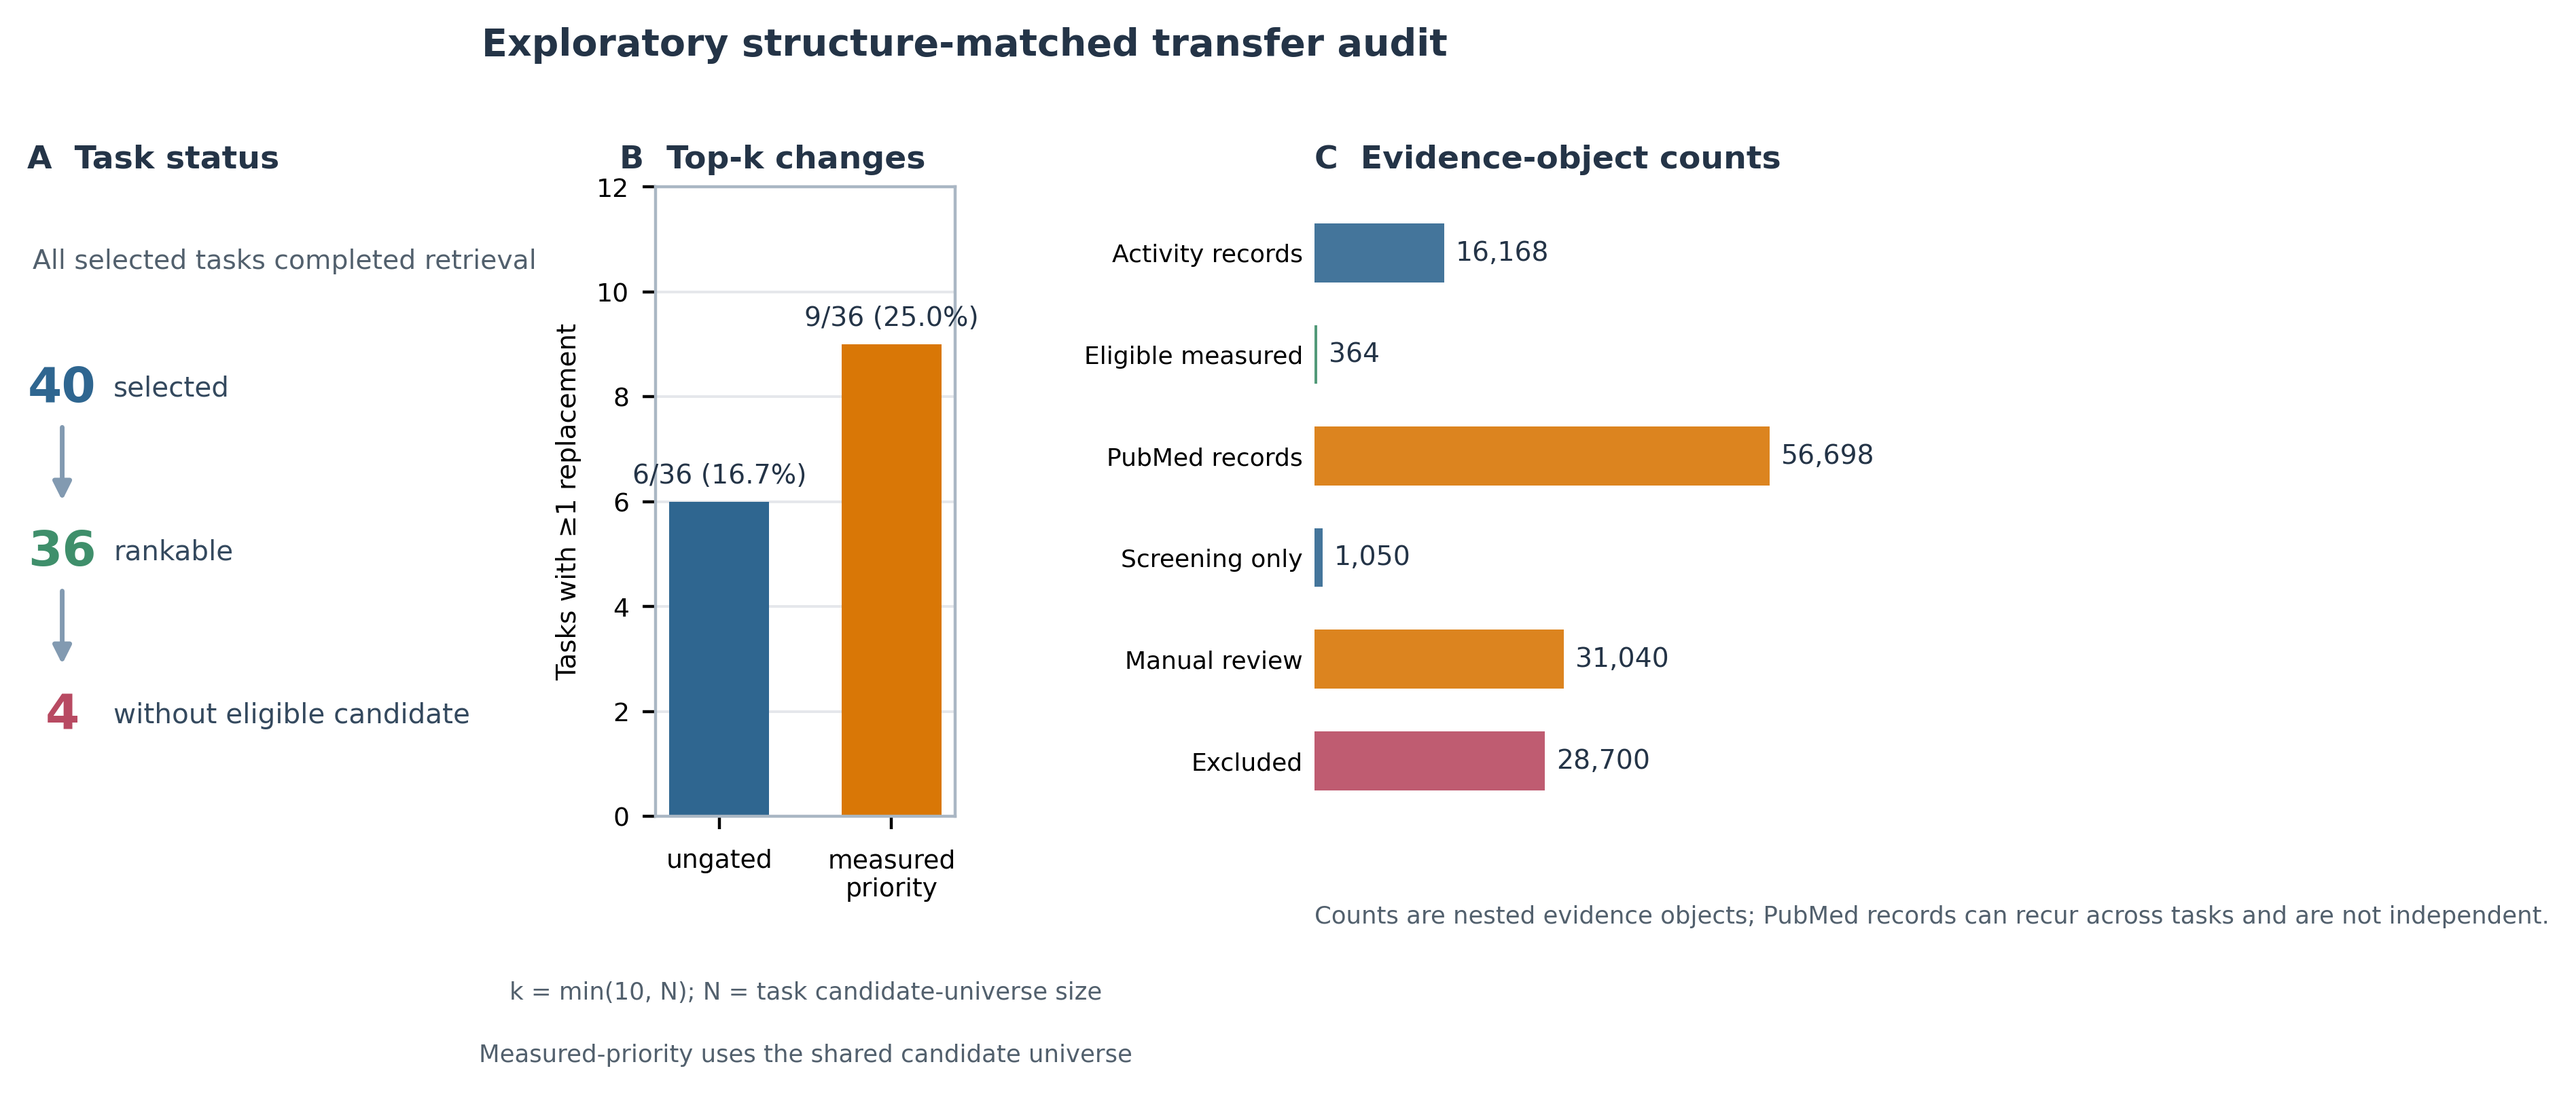
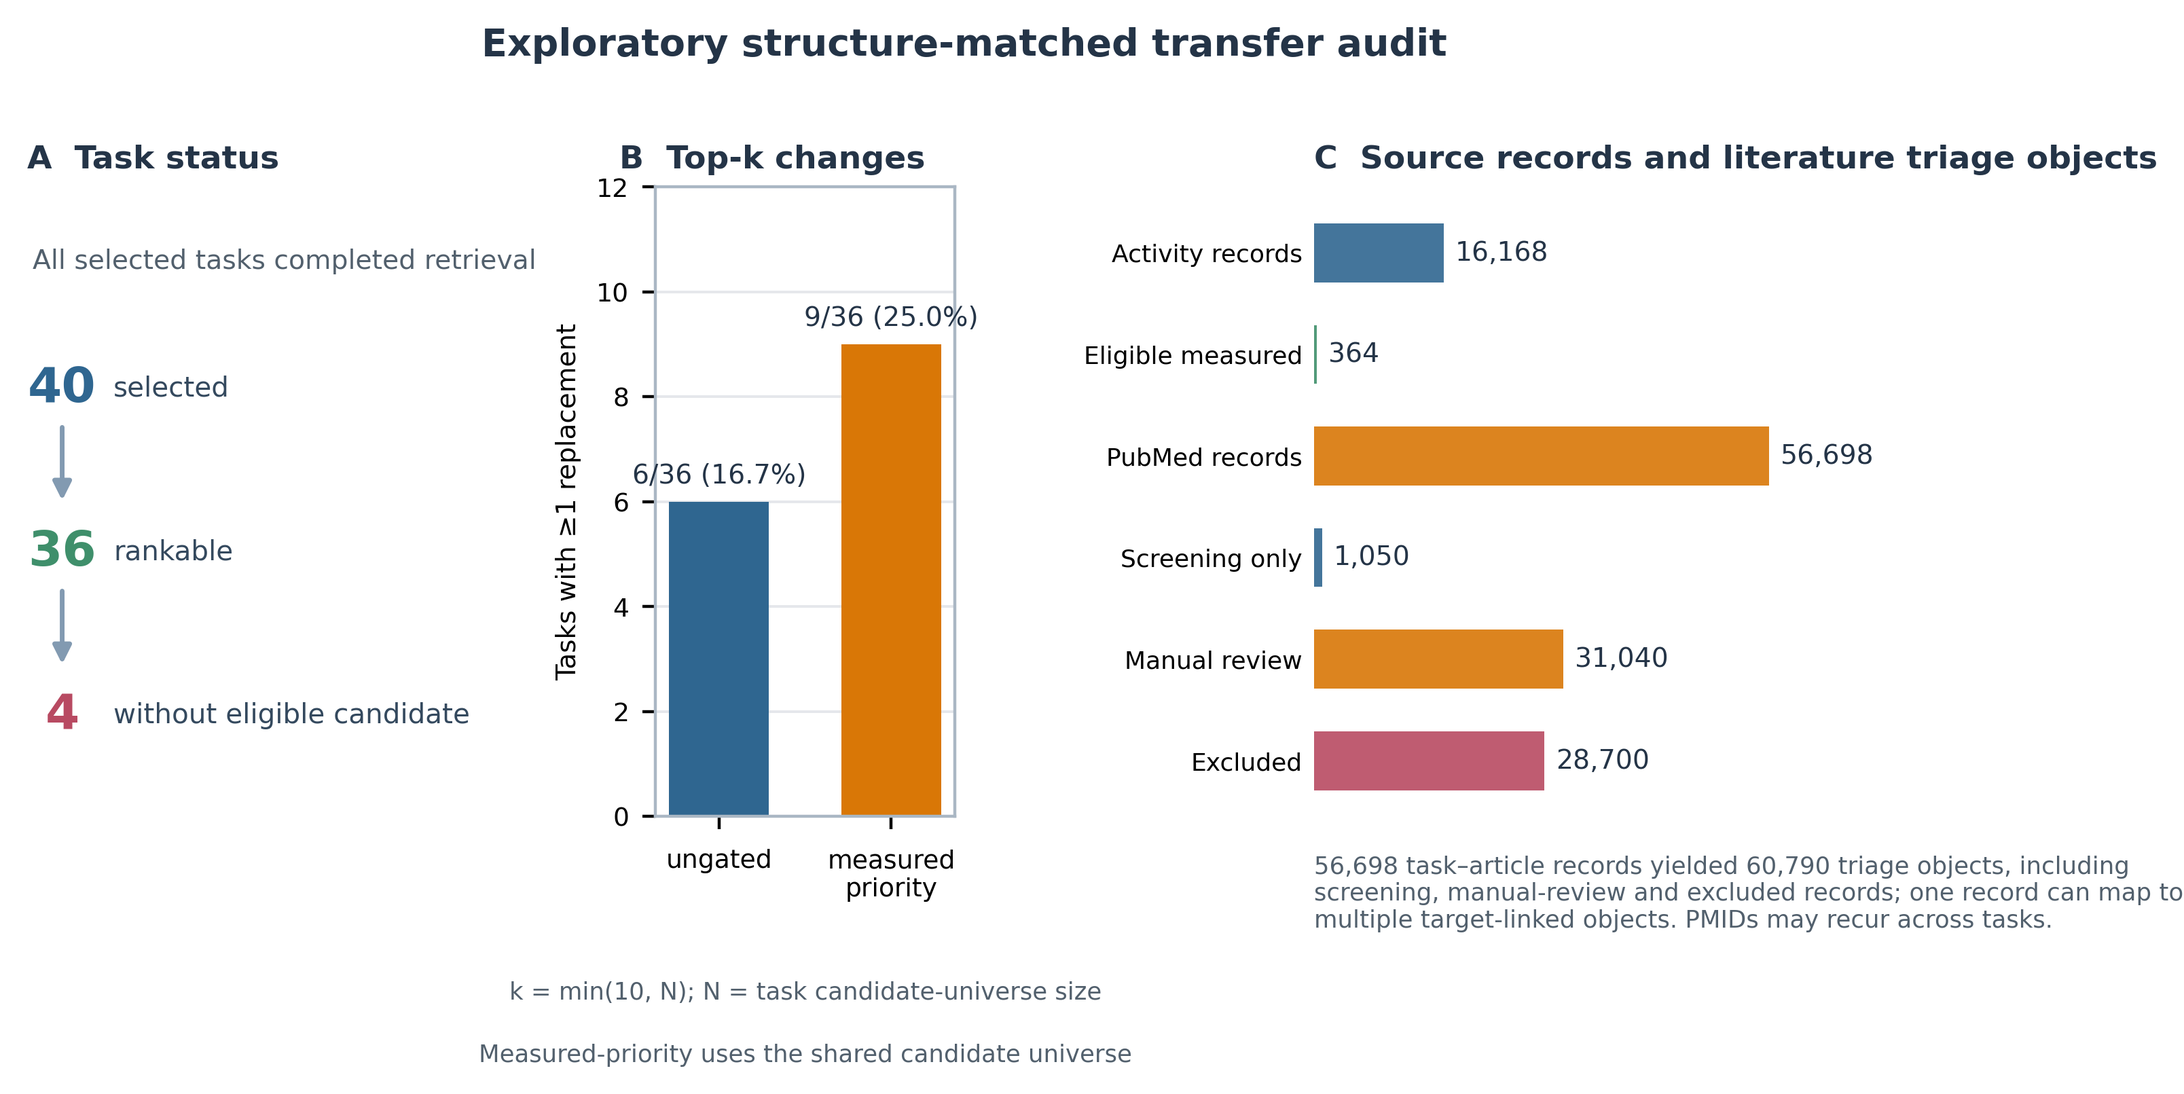
Clarify transfer audit triage object counts

diff --git a/scripts/make_transfer_audit_figure.py b/scripts/make_transfer_audit_figure.py
@@ -70,7 +70,7 @@ def build_figure(data: dict):
               transform=ax_b.transAxes, ha="center", fontsize=6.4, color="#52606d",
               wrap=True)
 
-    ax_c.text(0.0, 1.03, "C  Evidence-object counts", transform=ax_c.transAxes,
+    ax_c.text(0.0, 1.03, "C  Source records and literature triage objects", transform=ax_c.transAxes,
               fontsize=8.5, fontweight="bold", color="#243447")
     measured = data["evidence_object_counts_by_layer_and_status"]
     layers = [
@@ -97,8 +97,8 @@ def build_figure(data: dict):
     for spine in ax_c.spines.values():
         spine.set_visible(False)
     ax_c.text(0.0, -0.17,
-              "Counts are nested evidence objects; PubMed records can recur across tasks and are not independent.",
-              transform=ax_c.transAxes, ha="left", fontsize=6.4, color="#52606d")
+              "56,698 task–article records yielded 60,790 triage objects, including screening, manual-review and excluded records; one record can map to multiple target-linked objects. PMIDs may recur across tasks.",
+              transform=ax_c.transAxes, ha="left", fontsize=6.4, color="#52606d", wrap=True)
 
     fig.suptitle("Exploratory structure-matched transfer audit", fontsize=10,
                  fontweight="bold", color="#243447", y=0.995)

diff --git a/tests/test_transfer_audit_figure.py b/tests/test_transfer_audit_figure.py
@@ -29,3 +29,19 @@ def test_transfer_figure_labels_rankable_task_topk_and_shared_measured_ordering(
         assert bar_labels == ["6/36 (16.7%)", "9/36 (25.0%)"]
     finally:
         plt.close(fig)
+
+
+def test_transfer_figure_distinguishes_retrieved_records_from_expanded_literature_objects():
+    summary = json.loads(MODULE.SUMMARY.read_text(encoding="utf-8"))
+    fig = MODULE.build_figure(summary)
+    try:
+        panel_c = fig.axes[2]
+        visible_text = [text.get_text() for text in panel_c.texts]
+
+        assert "C  Source records and literature triage objects" in visible_text
+        assert any("56,698 task–article records" in item for item in visible_text)
+        assert any("60,790 triage objects" in item for item in visible_text)
+        assert any("manual-review and excluded records" in item for item in visible_text)
+        assert any("multiple target-linked objects" in item for item in visible_text)
+    finally:
+        plt.close(fig)

diff --git a/transfer_audit/RESULTS.md b/transfer_audit/RESULTS.md
@@ -8,7 +8,7 @@ Status: local exploratory audit; **not a confirmatory validation and not a biolo
 
 The frozen ChEMBL source frame contained 4,225 records. After applying the original eligibility rules and excluding the prior 49 tasks, 44 C/J/N-stratified tasks remained. Forty had an unambiguous one-to-one structure match to the 2021 DrugCentral structure crosswalk (18 ATC-J and 22 ATC-N); four were excluded solely for lack of a unique crosswalk. No activity, label-coverage, or ranking result was used to select the 40.
 
-All 40/40 tasks completed ChEMBL activity, target-metadata, and PubMed retrieval with no recorded retrieval error. The unchanged adapter generated 76,958 evidence objects from 16,168 activity observations and 56,698 retrieved PubMed records. Counts are nested and highly dependent—not independent observations. At the drug-task level, 36/40 were rankable; 4 had no eligible candidate target. Among rankable tasks, the median candidate universe was 7.5 (range 1–154). Only 364 measured objects were eligible under the frozen rules; 15,804 were excluded. There were 1,050 literature-only screening objects, 31,040 records requiring manual review, and 28,700 excluded literature objects. These results expose substantial evidence attrition and missingness rather than disguising it.
+All 40/40 tasks completed ChEMBL activity, target-metadata, and PubMed retrieval with no recorded retrieval error. The unchanged adapter generated 76,958 derived records from 16,168 activity observations and 56,698 retrieved PubMed task–article rows. The literature layer expanded those task–article rows into 60,790 literature triage objects, including screening-only, manual-review, and excluded records. One task–article record can produce multiple target-linked objects, and PubMed records can recur across tasks; the row and object counts therefore represent different, nested units rather than independent observations. The 60,790 objects are not 60,790 eligible or validated target-evidence claims. At the drug-task level, 36/40 were rankable; 4 had no eligible candidate target. Among rankable tasks, the median candidate universe was 7.5 (range 1–154). Only 364 measured objects were eligible under the frozen rules; 15,804 were excluded. There were 1,050 literature-only screening objects, 31,040 objects requiring manual review, and 28,700 excluded literature objects. These results expose substantial evidence attrition and missingness rather than disguising it.
 
 ## Did the workflow change prioritization?
 
